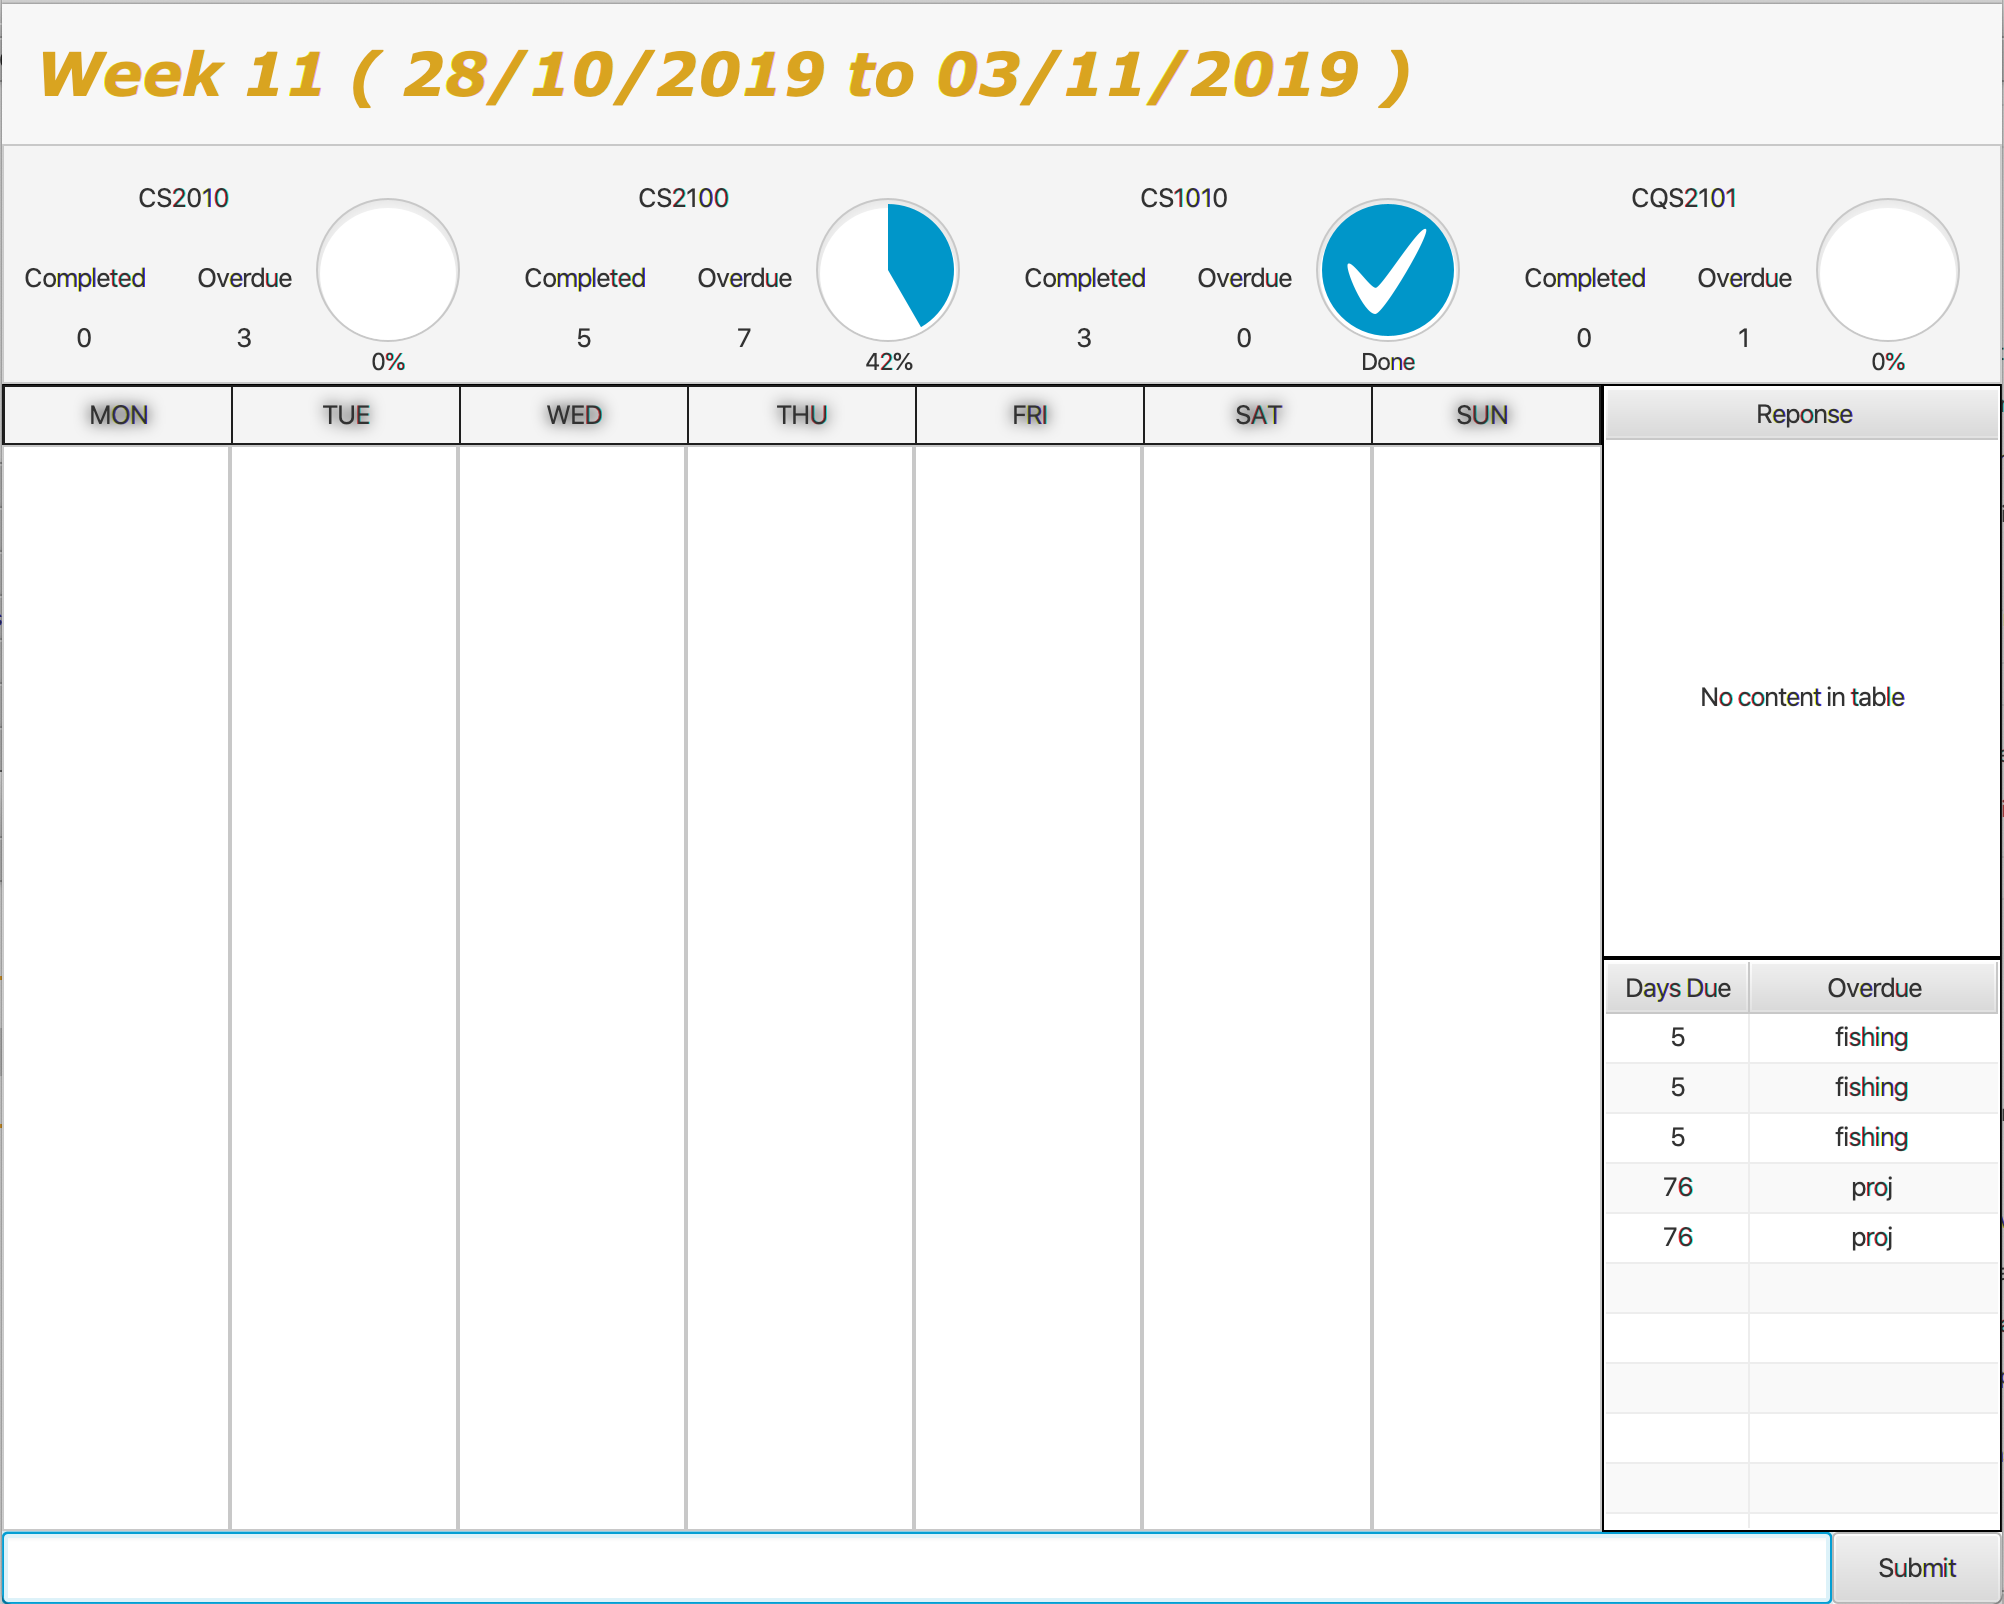
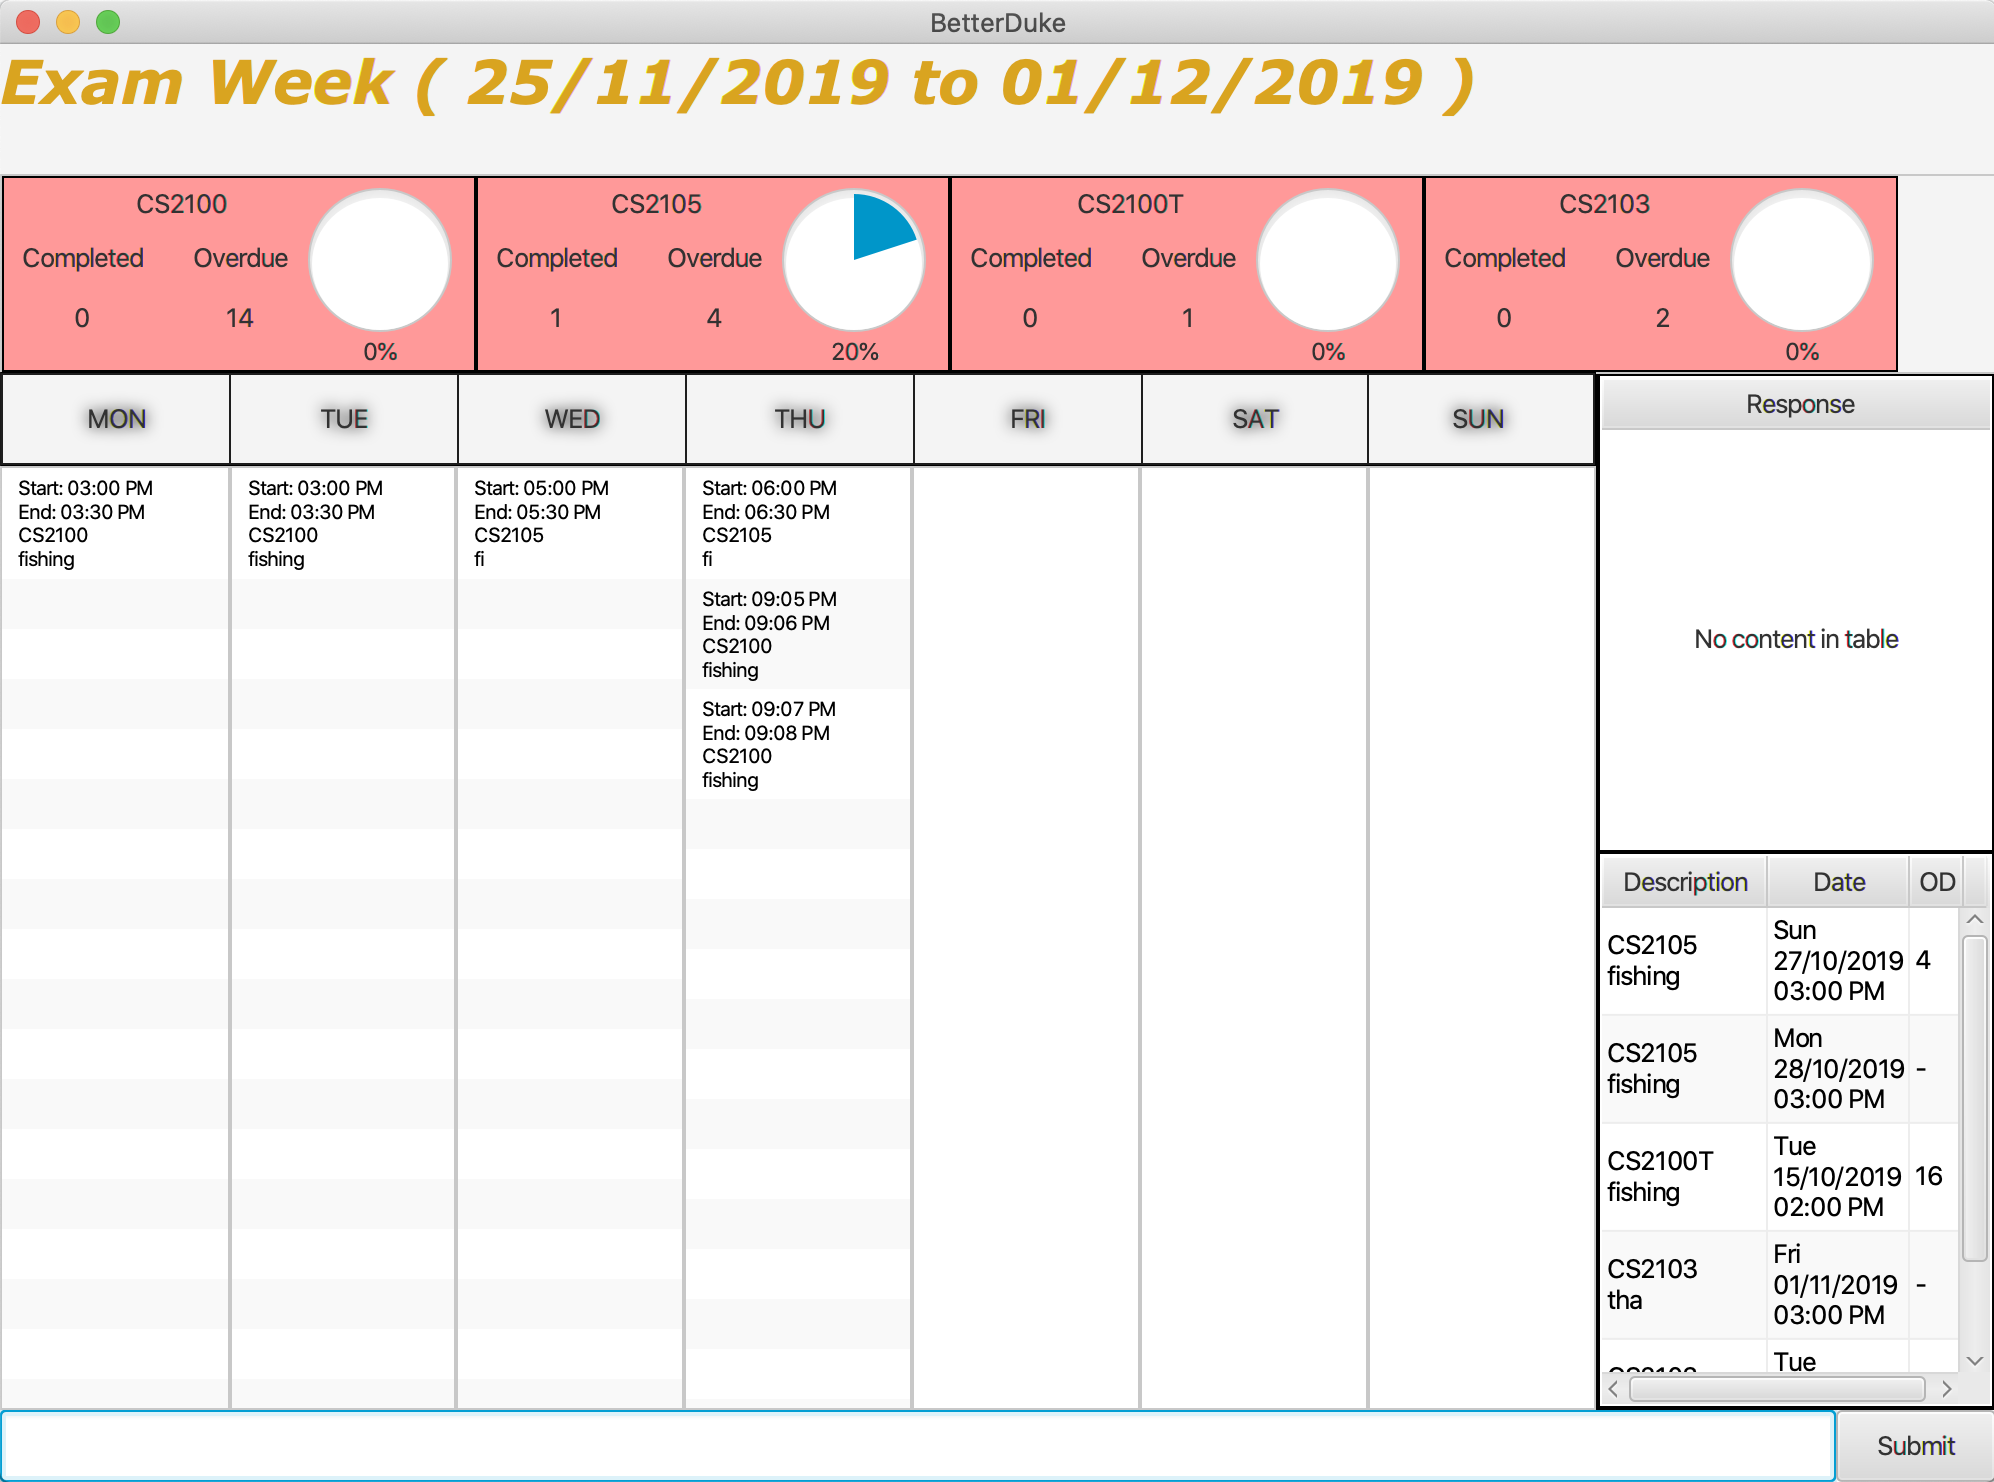
Update WeekCommand and WeekParse to facilitate non-integer Week

diff --git a/src/main/java/Parser/WeekParse.java b/src/main/java/Parser/WeekParse.java
@@ -2,15 +2,16 @@ package Parser;
 
 import Commands.Command;
 import Commands.WeekCommand;
-import DukeExceptions.DukeInvalidCommandException;
 import DukeExceptions.DukeInvalidFormatException;
 
 public class WeekParse extends Parse {
     private String fullCommand;
     private final String invalidInput = "Invalid input. Please enter the command as follows. \n" +
-            "Week 'x' , where 'x' is a digit between 1 - 13";
+            "Week 'x' , where 'x' is a digit between 1 - 13 or \n" +
+            "'x' is either 'recess', 'reading', or 'exam'";
     private final String invalidWeek = "Invalid Week. Please enter the command as follows. \n" +
-            "Week 'x' , where 'x' is a digit between 1 - 13";
+            "Week 'x' , where 'x' is a digit between 1 - 13 or \n" +
+            "'x' is either 'recess', 'reading', or 'exam'";
 
     public WeekParse(String fullCommand) {
         this.fullCommand = fullCommand;
@@ -18,22 +19,9 @@ public class WeekParse extends Parse {
 
     @Override
     public Command parse() throws DukeInvalidFormatException {
-        /*
-        String strWeek = fullCommand.replaceFirst("Week", "");
-        strWeek = strWeek.trim();
-        if(strWeek.isEmpty()) {
-            throw new DukeInvalidFormatException(invalidInput);
-        } else {
-            try{
-                Integer week = Integer.parseInt(strWeek);
-                if(week >= 1 && week <= 13) return new WeekCommand(fullCommand.trim());
-                else throw new DukeInvalidFormatException(invalidWeek);
-            } catch (NumberFormatException e) {
-                throw new DukeInvalidFormatException(invalidWeek);
-            }
-        }
-        */
-        if (isValid(fullCommand)) return new WeekCommand(fullCommand);
+        if (isValid(fullCommand)) {
+            fullCommand = getWeek(fullCommand);
+            return new WeekCommand(fullCommand);}
         else throw new DukeInvalidFormatException(invalidWeek);
     }
 
@@ -45,17 +33,31 @@ public class WeekParse extends Parse {
         }
         strWeek = strWeek.trim();
         if(strWeek.isEmpty()) {
-            //throw new DukeInvalidFormatException(invalidInput);
             return false;
-        } else {
+        } else if (strWeek.equals("recess") || strWeek.equals("reading") || strWeek.equals("exam")) {
+            return true;
+        }else {
             try{
                 Integer week = Integer.parseInt(strWeek);
                 if(week >= 1 && week <= 13) return true;
                 else return false;
             } catch (NumberFormatException e) {
-                //throw new DukeInvalidFormatException(invalidWeek);
                 return false;
             }
         }
+    }
+
+    public static String getWeek(String fullCommand) {
+        String week = fullCommand.replaceFirst("Week", "");
+        week = week.trim();
+        if ((week.equals("recess") || week.equals("reading") || week.equals("exam"))) {
+            String firstLetter = week.substring(0,1);
+            firstLetter = firstLetter.toUpperCase();
+            week = firstLetter + week.substring(1);
+            week = week + " Week";
+        } else {
+            return fullCommand;
+        }
+        return week;
     }
 }

diff --git a/src/main/java/UserInterface/MainWindow.java b/src/main/java/UserInterface/MainWindow.java
@@ -305,16 +305,18 @@ public class MainWindow extends BorderPane implements Initializable {
         if(input.startsWith("Week")) {
             if(WeekParse.isValid(input)) {
                 week = input;
-                setWeek(false, week);
+                // //if Week Recess need make till Recess Week normal case: Week 7
+                setWeek(false, WeekParse.getWeek(input));
             }
         }
-
+        retrieveList();
+        //if(week.contains(" Week")) week = WeekParse.invertWeek(week);
         duke.getResponse(week);
         outputWeekList = WeekCommand.getWeekList();
         updateListView();
 
         outputList = ShowPreviousCommand.getOutputList();
-        retrieveList();
+
 
         overdueTable.getColumns().clear();
         overdueDateColumn.setCellValueFactory(new PropertyValueFactory<>("date"));
@@ -341,7 +343,7 @@ public class MainWindow extends BorderPane implements Initializable {
         }
         userInput.clear();
 
-        if (input.contains("retrieve previous")) {
+        if (input.contains("retrieve/previous")) {
             String previousInput = Duke.getPreviousInput();
             userInput.setText(previousInput);
         } else if (input.startsWith("retrieve/ft ")) {
@@ -383,7 +385,7 @@ public class MainWindow extends BorderPane implements Initializable {
         }
         else{
             currentWeek.setText(selectedWeek + " ( " + LT.getValue(selectedWeek.toLowerCase()) + " )");
-            week = selectedWeek;
+            //week = selectedWeek;
         }
     }
 

diff --git a/src/main/java/Commands/WeekCommand.java b/src/main/java/Commands/WeekCommand.java
@@ -154,10 +154,10 @@ public class WeekCommand extends Command {
 
     @Override
     public String execute(LookupTable LT, TaskList events, TaskList deadlines, Ui ui, Storage storage) throws Exception {
-        String intWeek = week.replaceFirst("Week", "");
-        intWeek = intWeek.trim();
-        Integer duration = Integer.parseInt(intWeek);
-        if(duration < 1 || duration > 13) return ui.showWeeksInvalidEntry();
+//        String intWeek = week.replaceFirst("Week", "");
+//        intWeek = intWeek.trim();
+//        Integer duration = Integer.parseInt(intWeek);
+//        if(duration < 1 || duration > 13) return ui.showWeeksInvalidEntry();
         setListView(LT, events);
         sortList();
         weekList = new WeekList(monList, tueList, wedList, thuList, friList, satList, sunList);
